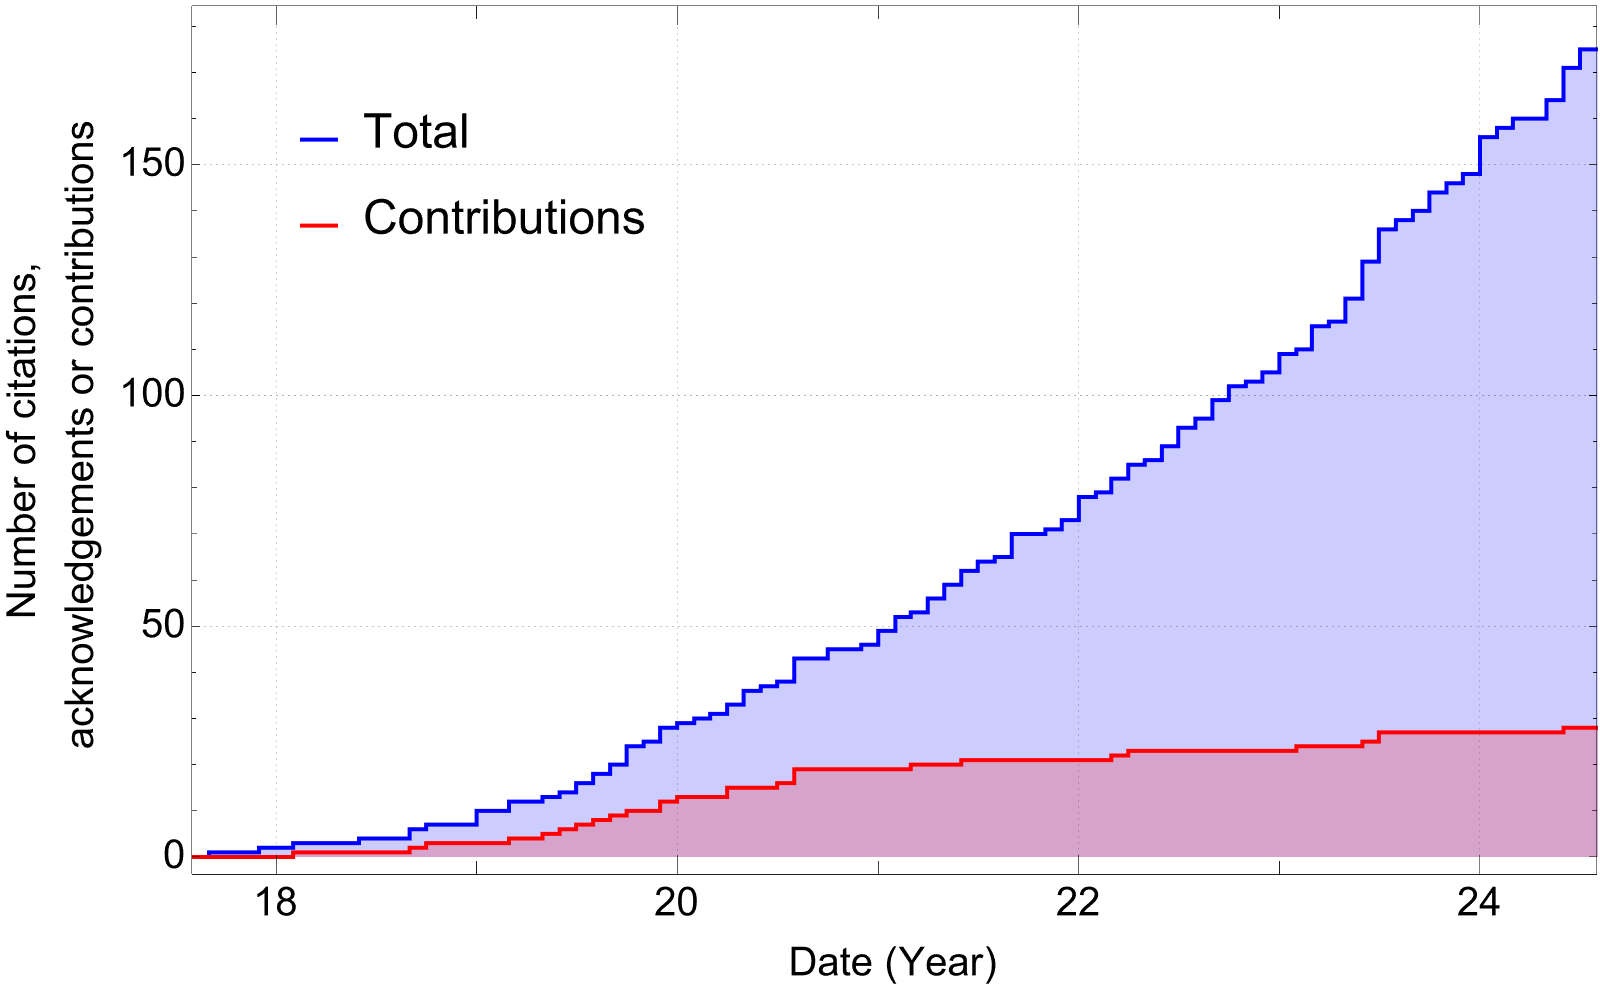
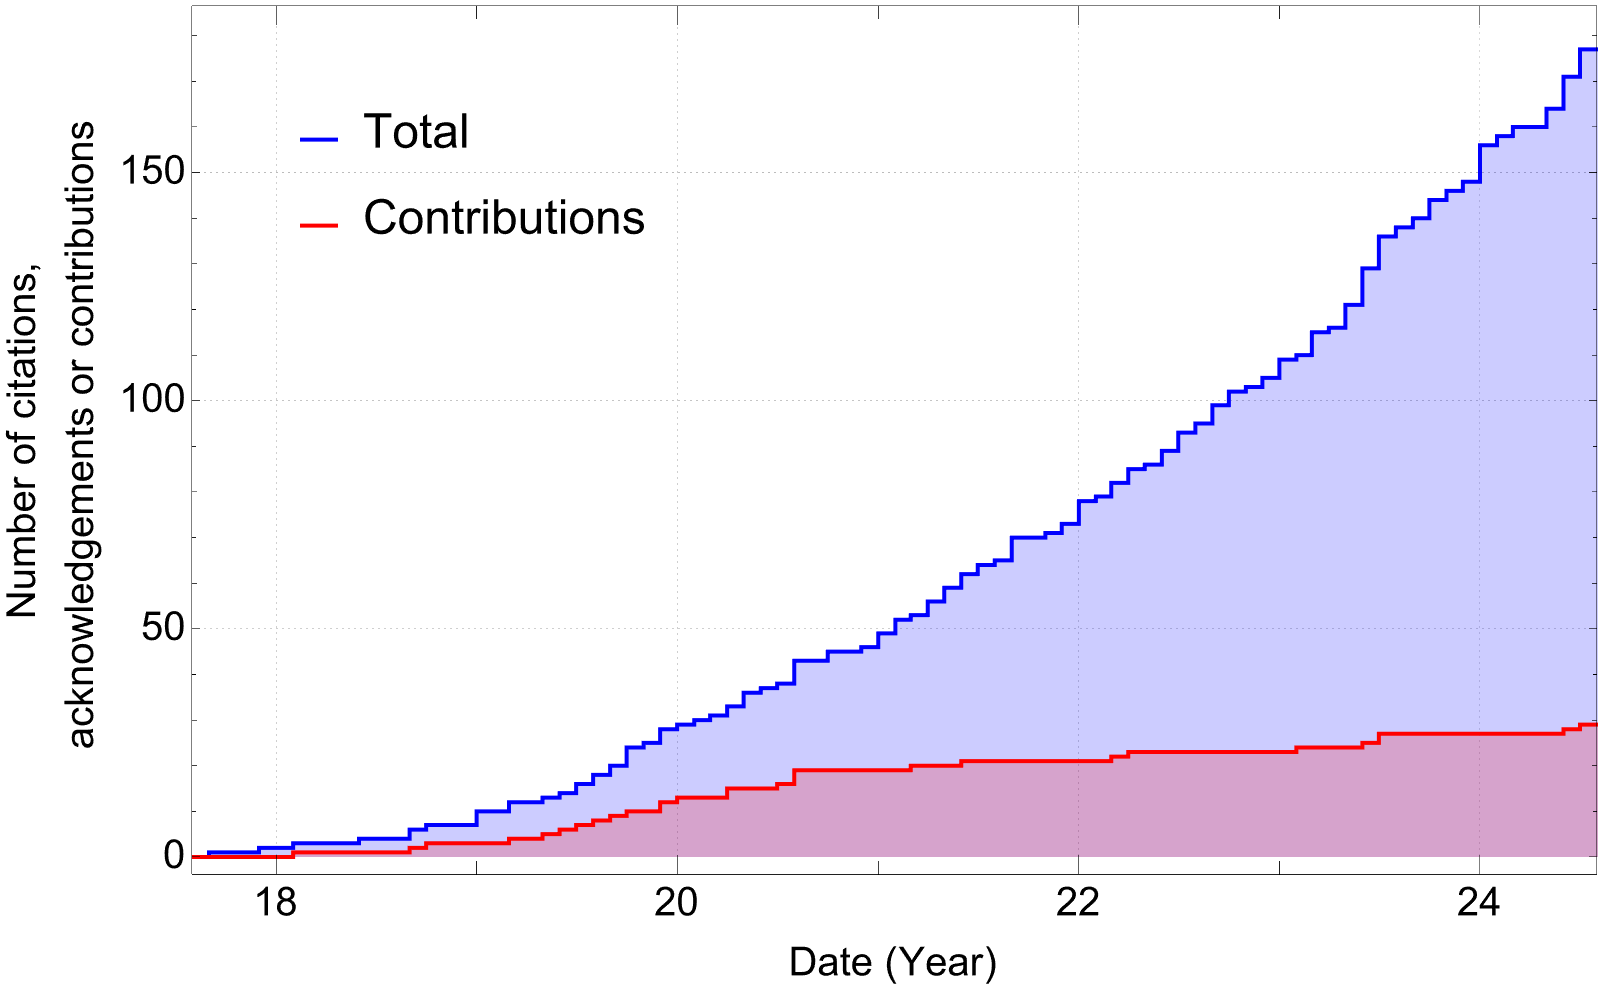
Add paper the cites the BHPToolkit

diff --git a/users.md b/users.md
@@ -19,6 +19,8 @@ The graph below show the accumulated citations to the Toolkit over time. The blu
 
 Below is a list of research papers that have used or extended the Toolkit. Papers that have contributed code or data to the Toolkit have a (*) after them.
 
+177\. "Gravitational wave surrogate model for spinning, intermediate mass ratio binaries based on perturbation theory and numerical relativity", Katie Rink, Ritesh Bachhar, Tousif Islam, Nur E. M. Rifat, Kevin Gonzalez-Quesada, Scott E. Field, Gaurav Khanna, Scott A. Hughes, Vijay Varma, [arXiv:2407.18319](https://arxiv.org/abs/2407.18319)
+
 176\. "Gravitational waves from black hole emission", Tousif Islam, Gaurav Khanna, Steven L. Liebling, [arXiv:2407.16989](https://arxiv.org/abs/2407.16989)
 
 175\. "Phenomenology and origin of late-time tails in eccentric binary black hole mergers", Tousif Islam, Guglielmo Faggioli, Gaurav Khanna, Scott E. Field, Maarten van de Meent, Alessandra Buonanno, [arXiv:2407.04682](https://arxiv.org/abs/2407.04682)
